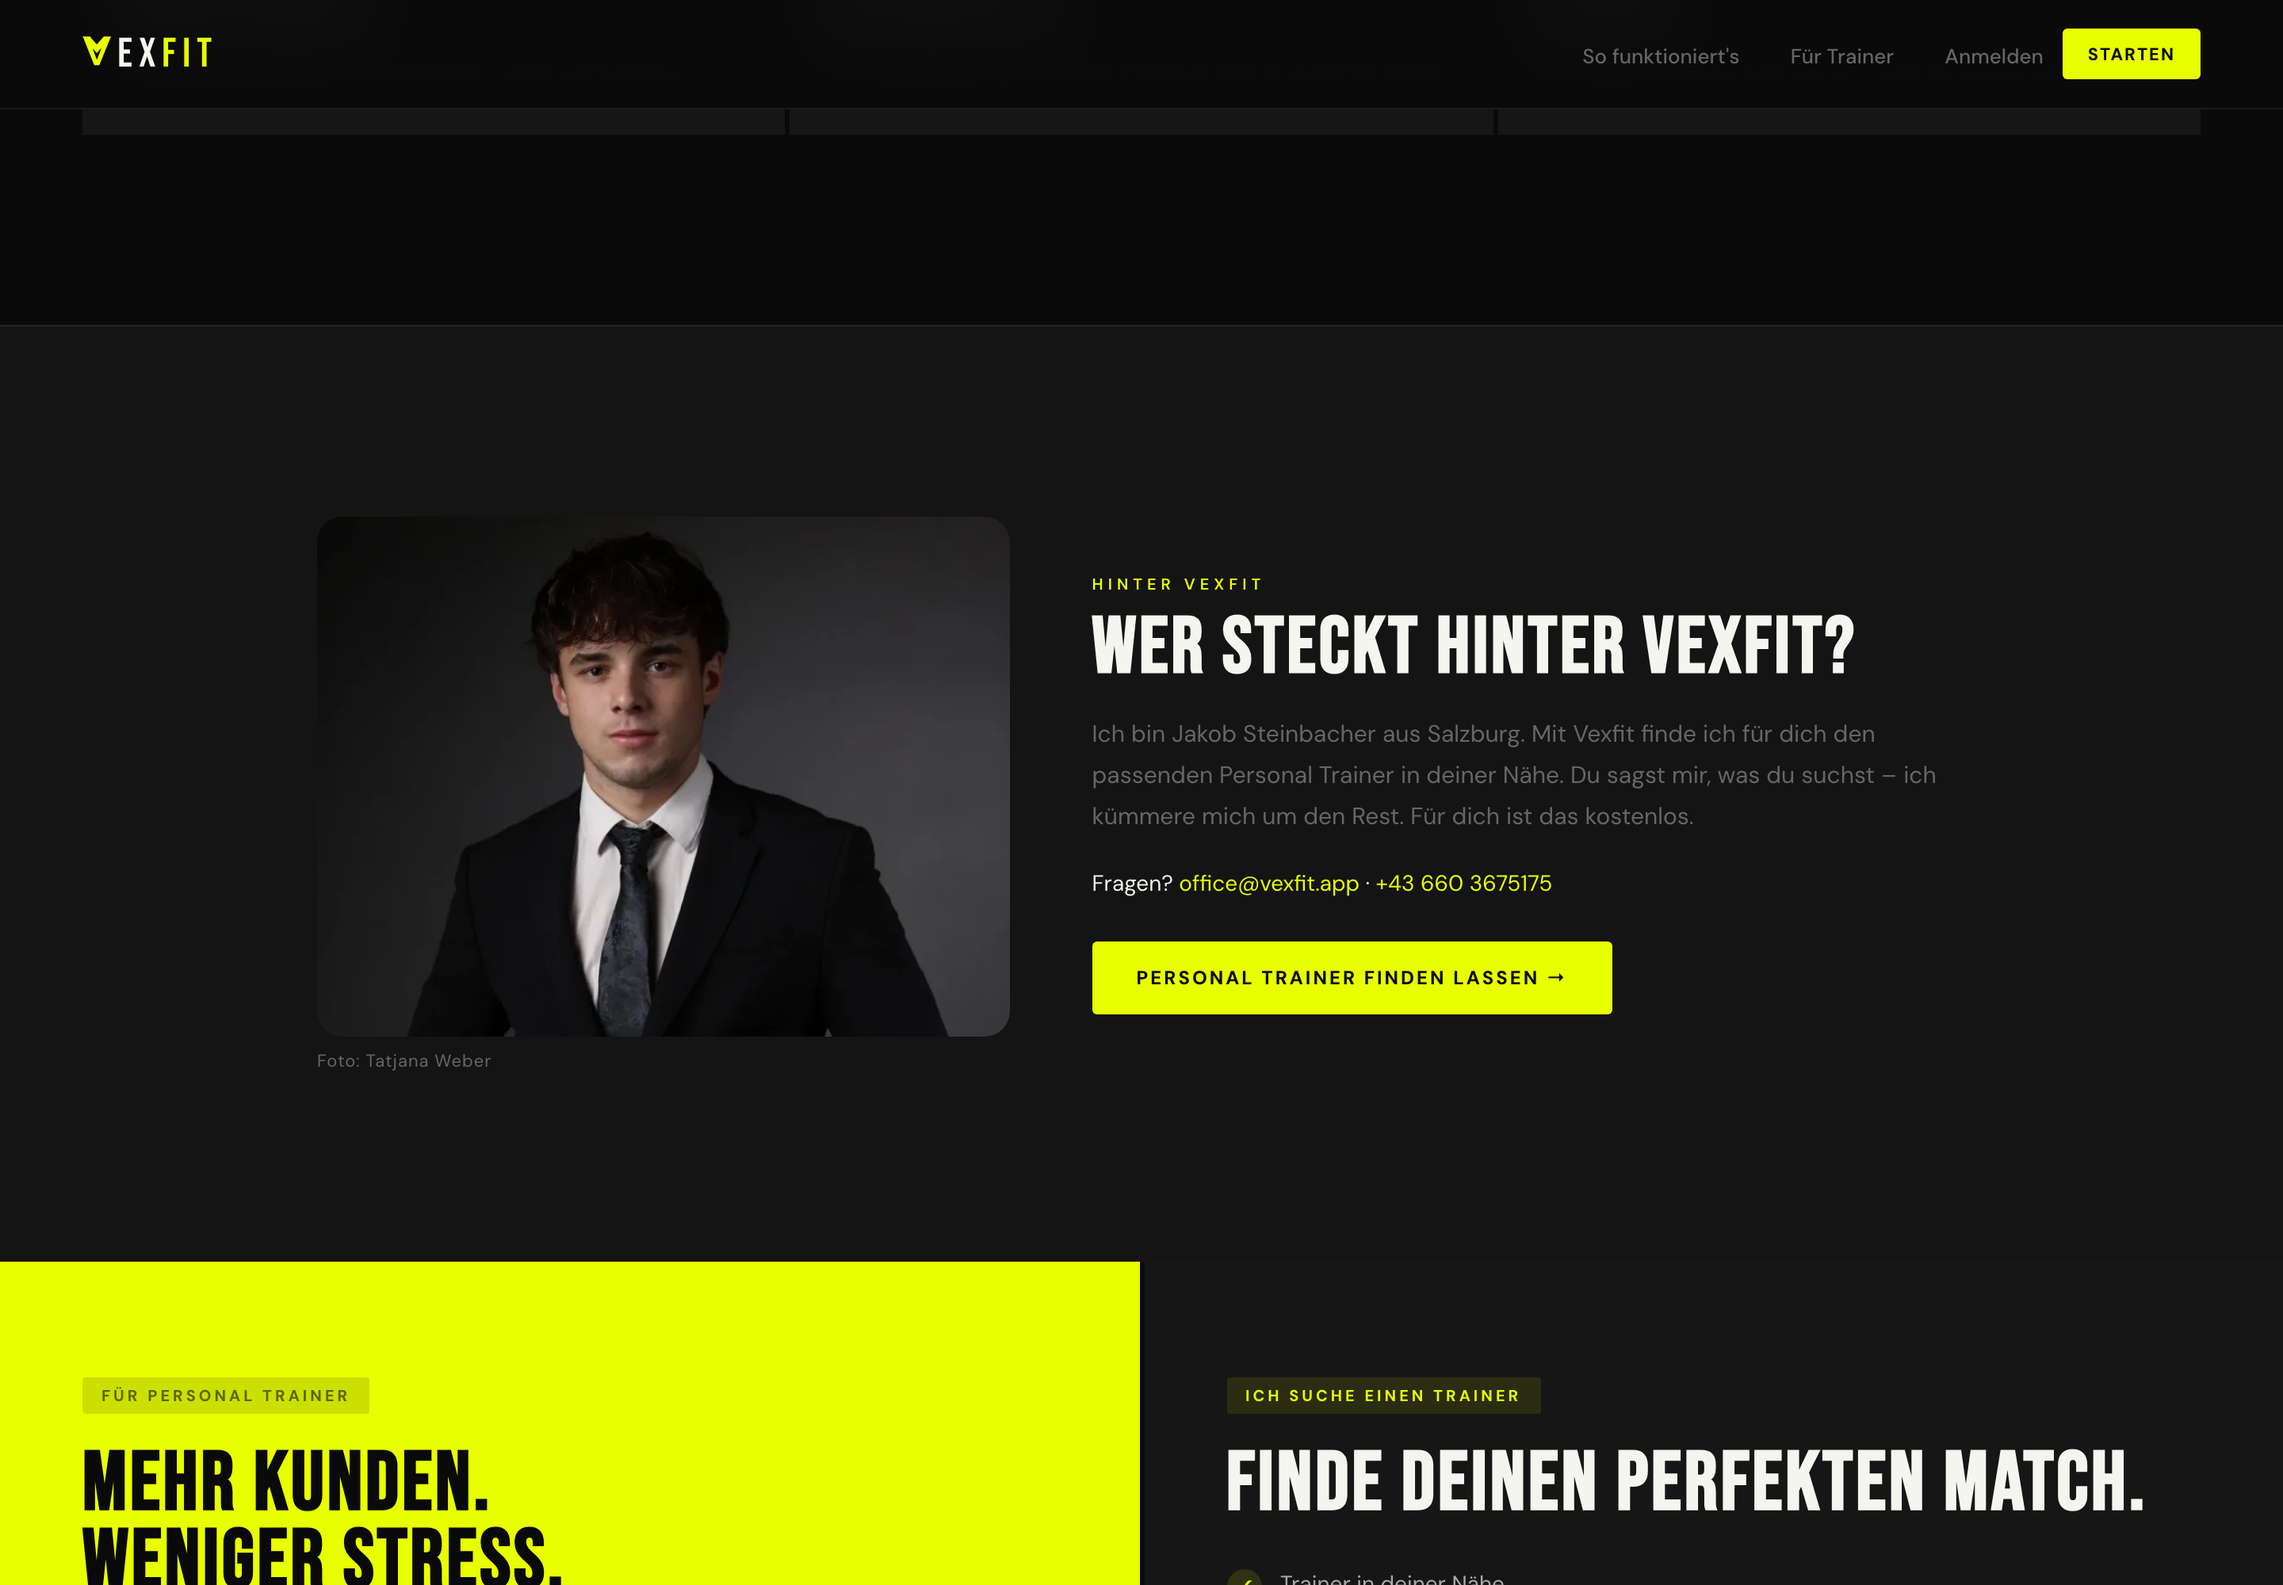
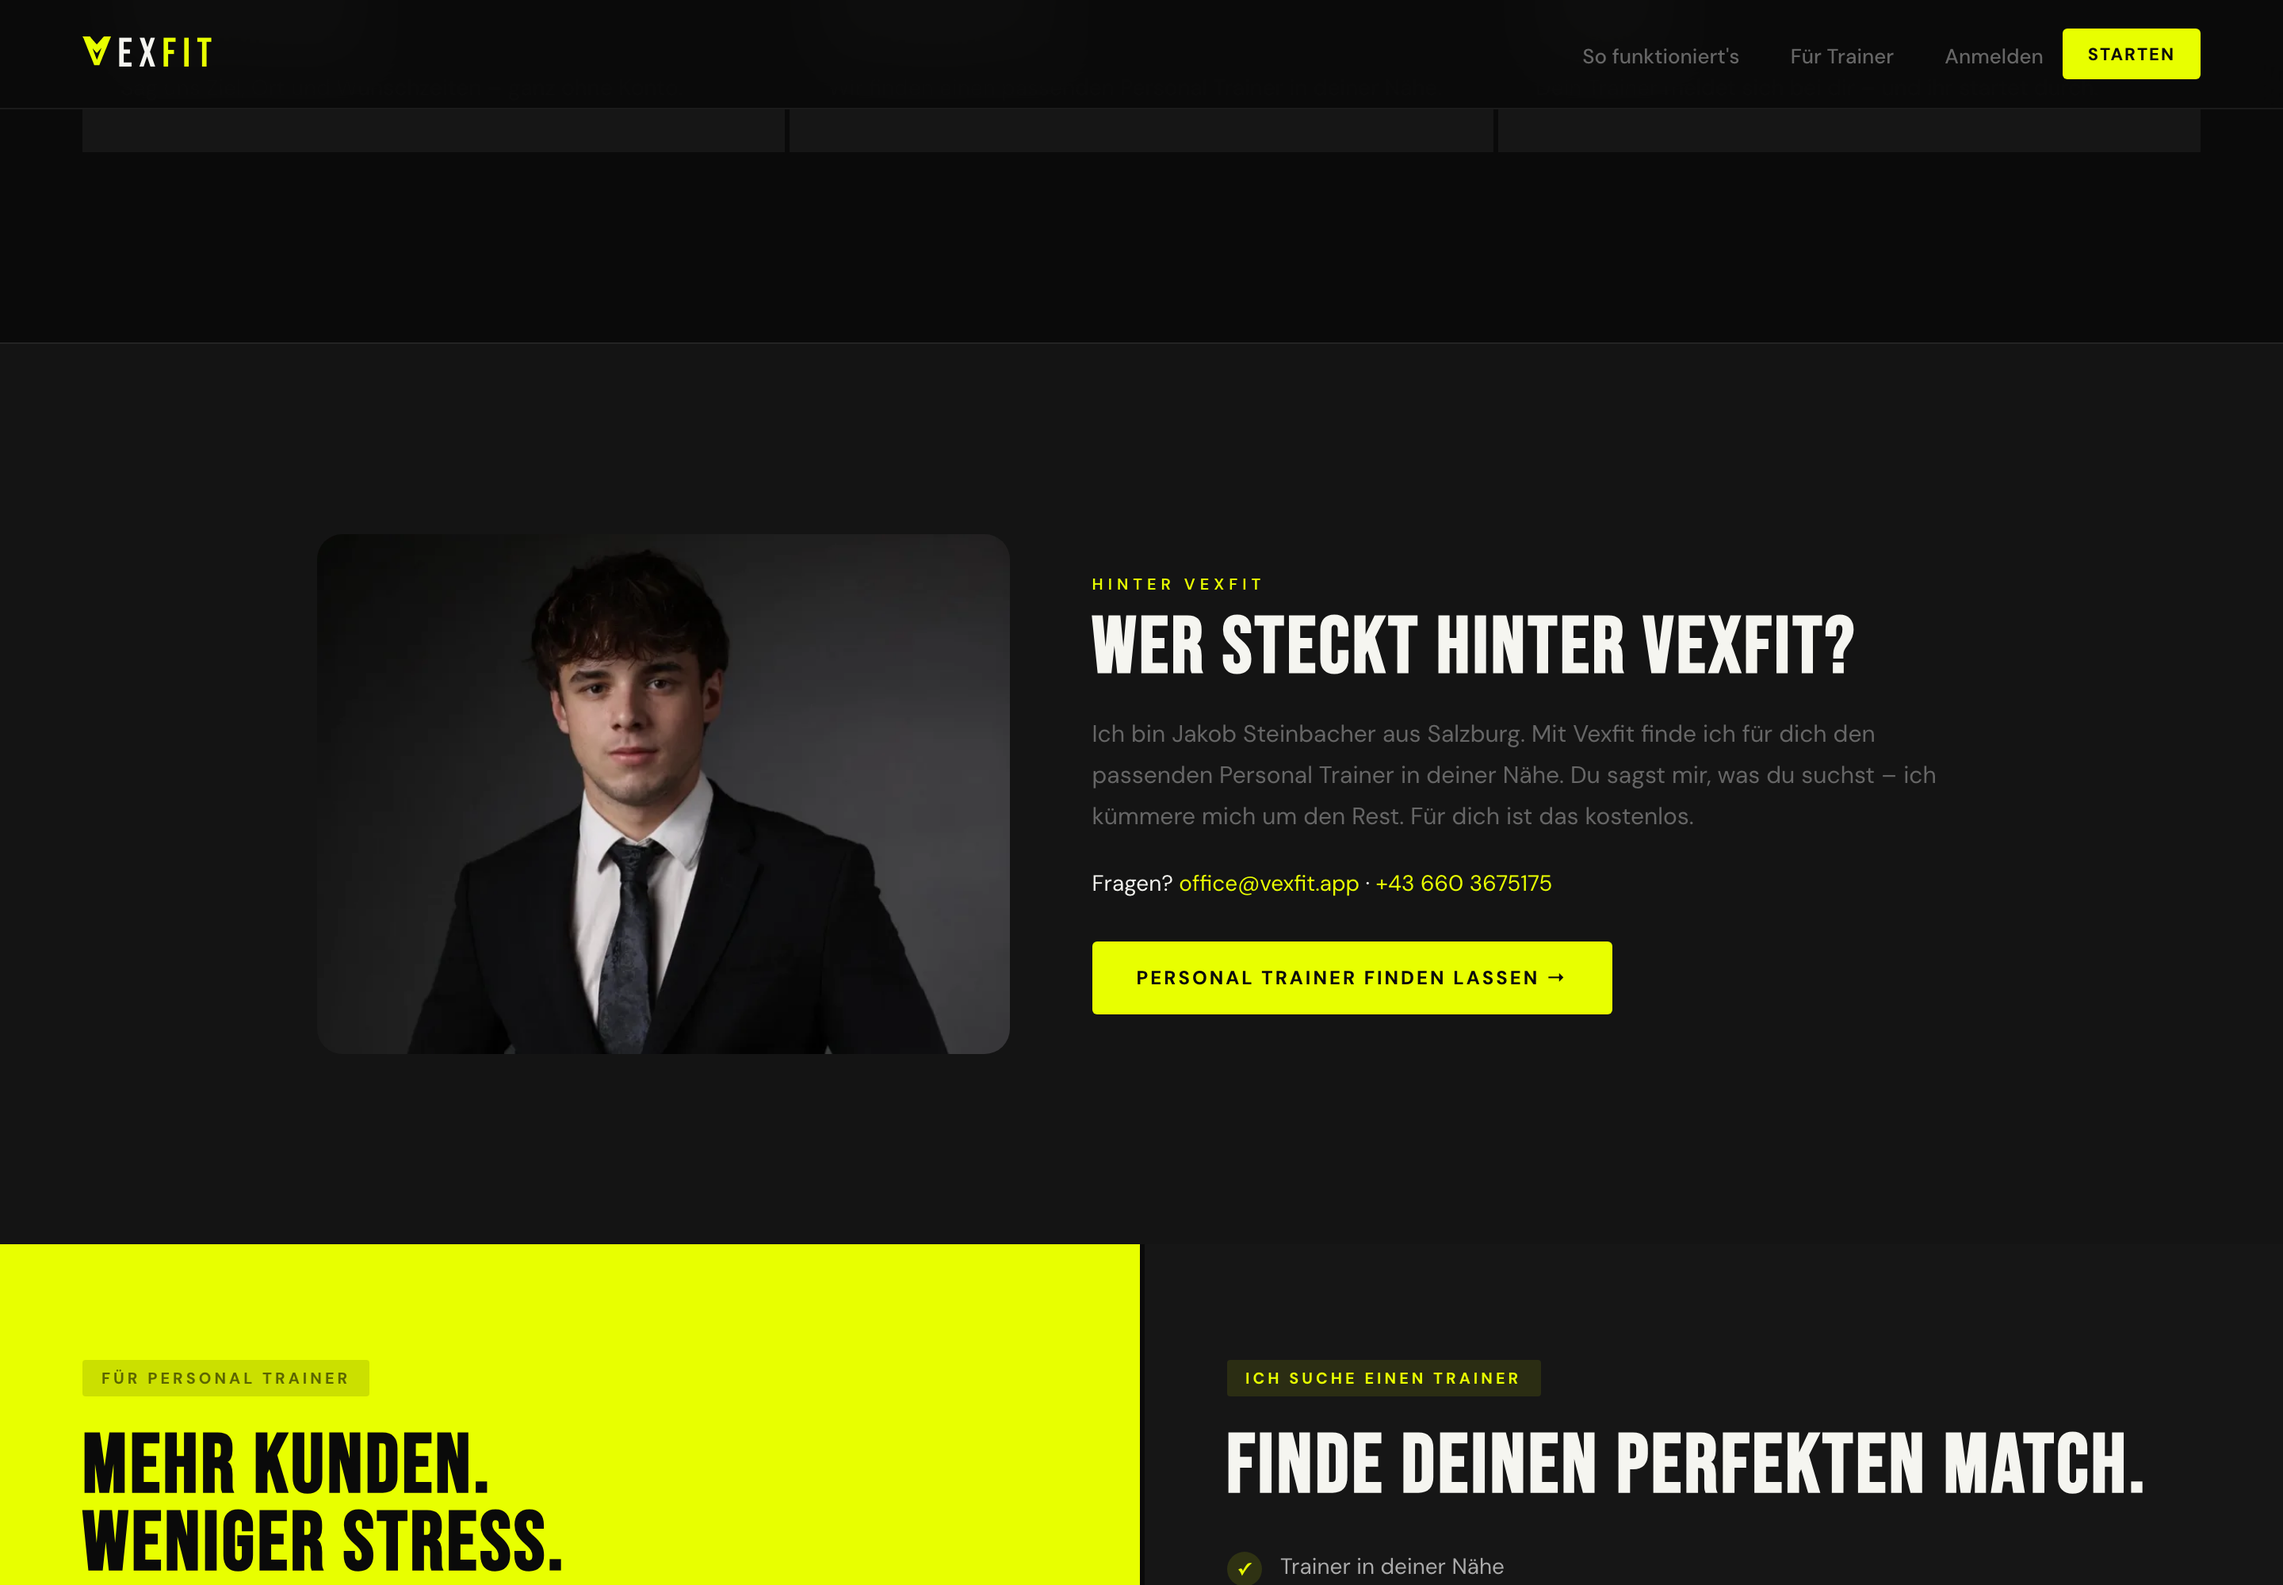
Bildnachweis "Foto: Tatjana Weber" aus dem Ueber-mich-Abschnitt entfernt
index.html: figcaption-Bildnachweis unter dem Foto (#ueber-mich) samt
nicht mehr benoetigter CSS-Regel .ueber-credit entfernt; sonst nichts am
Abschnitt geaendert, kein leerer Abstand unter dem Foto.

ueber_mich_test.ts: prueft jetzt, dass "Tatjana Weber" auf keiner
oeffentlichen Seite vorkommt; alle uebrigen Pruefungen bleiben.

geheimnisse_test.ts: oeffentliche Geschaeftsnummer (Anzeige + tel:) auch in
ueber_mich_test.ts als harmlos eingetragen (dieselbe Nummer wie im Impressum;
die Pruefung erfasst versionierte Dateien, zu denen die Testdatei seit df9cd60
gehoert).

Screenshots 375/1440 neu in docs/screenshots/2026-11-14/ueber-mich/.
Keine Migration, kein Deploy, kein Push.

diff --git a/ueber_mich_test.ts b/ueber_mich_test.ts
@@ -3,7 +3,8 @@
 // Baustein 14.11.2026 – Abschnitt „Wer steckt hinter Vexfit?" mit Foto.
 // Geprüft (reine Datei-/Textprüfung, ohne Netz/DB):
 //   * index.html: Abschnitt #ueber-mich mit EXAKT dem vorgegebenen Text
-//     (Überschrift, Absatz, Kontaktzeile) + Bildnachweis „Foto: Tatjana Weber",
+//     (Überschrift, Absatz, Kontaktzeile),
+//   * „Tatjana Weber" kommt auf keiner öffentlichen Seite vor,
 //   * Kontaktzeile zusätzlich als mailto-/tel-Link,
 //   * Knopf „Personal Trainer finden lassen" → wunsch.html mit Herkunfts-Parameter,
 //   * responsive Bilder (400/800 WebP + JPG), alt-Text, feste Maße, loading=lazy,
@@ -46,8 +47,17 @@ Deno.test("Ueber: Abschnitt mit exakt vorgegebenem Text (Überschrift, Absatz, K
   assertEquals(nurText(kontakt[1]), "Fragen? office@vexfit.app · +43 660 3675175");
   assertStringIncludes(kontakt[1], 'href="mailto:office@vexfit.app"');
   assertStringIncludes(kontakt[1], 'href="tel:+436603675175"');
+});
 
-  assertStringIncludes(sec, '<figcaption class="ueber-credit">Foto: Tatjana Weber</figcaption>');
+Deno.test("Ueber: kein Bildnachweis Tatjana Weber auf öffentlichen Seiten", async () => {
+  const basis = new URL("./", import.meta.url);
+  const treffer: string[] = [];
+  for await (const e of Deno.readDir(basis)) {
+    if (!e.isFile || !e.name.endsWith(".html")) continue;
+    const s = await Deno.readTextFile(new URL(e.name, basis));
+    if (s.includes("Tatjana")) treffer.push(e.name);
+  }
+  assertEquals(treffer, [], "Bildnachweis noch vorhanden in: " + treffer.join(", "));
 });
 
 Deno.test("Ueber: Knopf führt mit Herkunfts-Parameter auf das Wunsch-Formular", async () => {

diff --git a/index.html b/index.html
@@ -151,7 +151,6 @@ footer p{font-size:12px;color:var(--text-muted)}
 @media(prefers-reduced-motion:reduce){.ueber-inner{animation:none}}
 .ueber-foto{margin:0;min-width:0}
 .ueber-foto img{display:block;width:100%;height:auto;aspect-ratio:4/3;object-fit:cover;object-position:center top;border-radius:16px;background:var(--card)}
-.ueber-credit{font-size:11px;color:var(--text-muted);letter-spacing:0.5px;margin-top:8px}
 .ueber-titel{font-family:'Bebas Neue',sans-serif;font-size:clamp(34px,8vw,50px);line-height:0.98;letter-spacing:2px;margin:8px 0 16px;color:var(--white)}
 .ueber-abs{font-size:15px;color:var(--text-muted);line-height:1.75;margin-bottom:18px;max-width:54ch}
 .ueber-kontakt{font-size:14px;color:var(--white);line-height:1.7;margin-bottom:24px}
@@ -276,7 +275,6 @@ try {
         <source type="image/webp" srcset="bilder/jakob-400.webp 400w, bilder/jakob-800.webp 800w" sizes="(min-width:768px) 440px, 100vw">
         <img src="bilder/jakob-800.jpg" srcset="bilder/jakob-400.jpg 400w, bilder/jakob-800.jpg 800w" sizes="(min-width:768px) 440px, 100vw" width="800" height="600" loading="lazy" decoding="async" alt="Jakob Steinbacher, Gründer von Vexfit">
       </picture>
-      <figcaption class="ueber-credit">Foto: Tatjana Weber</figcaption>
     </figure>
     <div class="ueber-text">
       <div class="section-label">Hinter Vexfit</div>

diff --git a/supabase/functions/trainer-alert/geheimnisse_test.ts b/supabase/functions/trainer-alert/geheimnisse_test.ts
@@ -57,6 +57,16 @@ const HARMLOS: { datei: string; hash: string; grund: string }[] = [
     grund: "Vexfit-Geschaeftsnummer (tel:-Link) im Ueber-mich-Abschnitt der Startseite, dieselbe oeffentliche Nummer wie im Impressum",
   },
   {
+    datei: "ueber_mich_test.ts",
[1 lines of base64/hex data omitted]
+    grund: "Vexfit-Geschaeftsnummer (Anzeige) als erwarteter Text in der Pruefung des Ueber-mich-Abschnitts, dieselbe oeffentliche Nummer wie im Impressum",
+  },
+  {
+    datei: "ueber_mich_test.ts",
[1 lines of base64/hex data omitted]
+    grund: "Vexfit-Geschaeftsnummer (tel:-Link) als erwarteter Text in der Pruefung des Ueber-mich-Abschnitts, dieselbe oeffentliche Nummer wie im Impressum",
+  },
+  {
     datei: "supabase/functions/vexfit-automation/profil_erinnerung_test.ts",
[1 lines of base64/hex data omitted]
     grund: "Platzhalter-Testnummer (alle Nullen) in der Fixture, keine echte Nummer",
